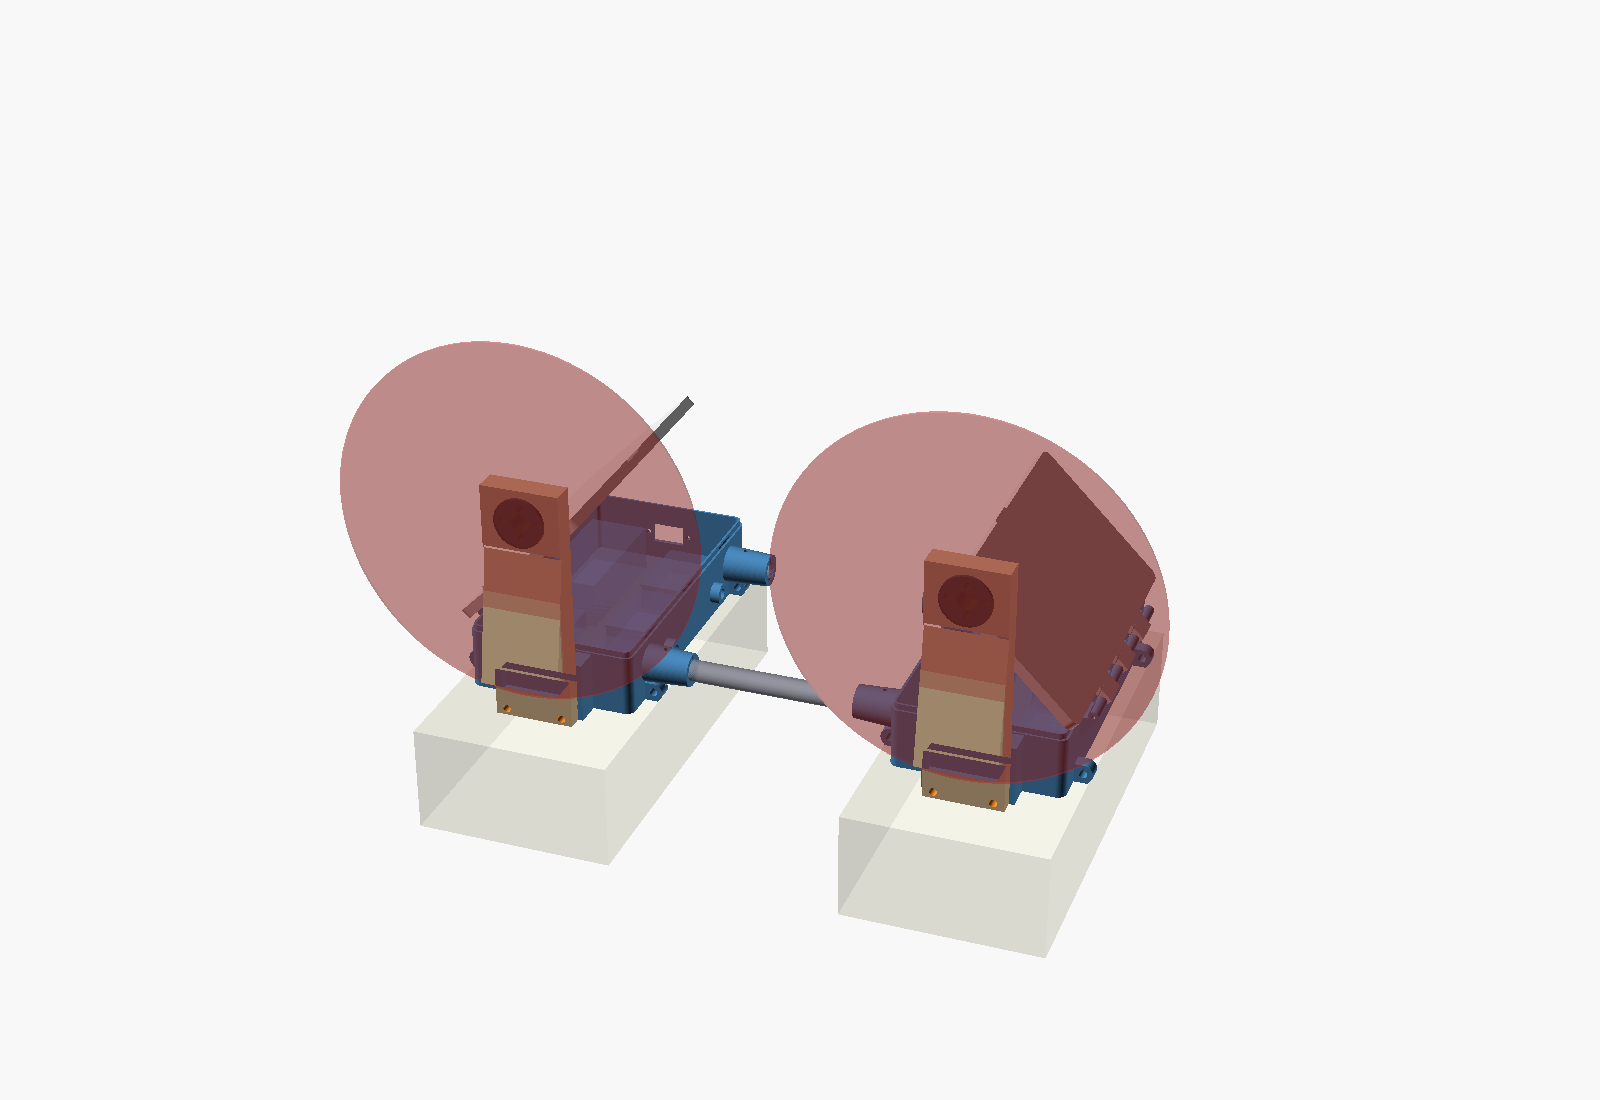
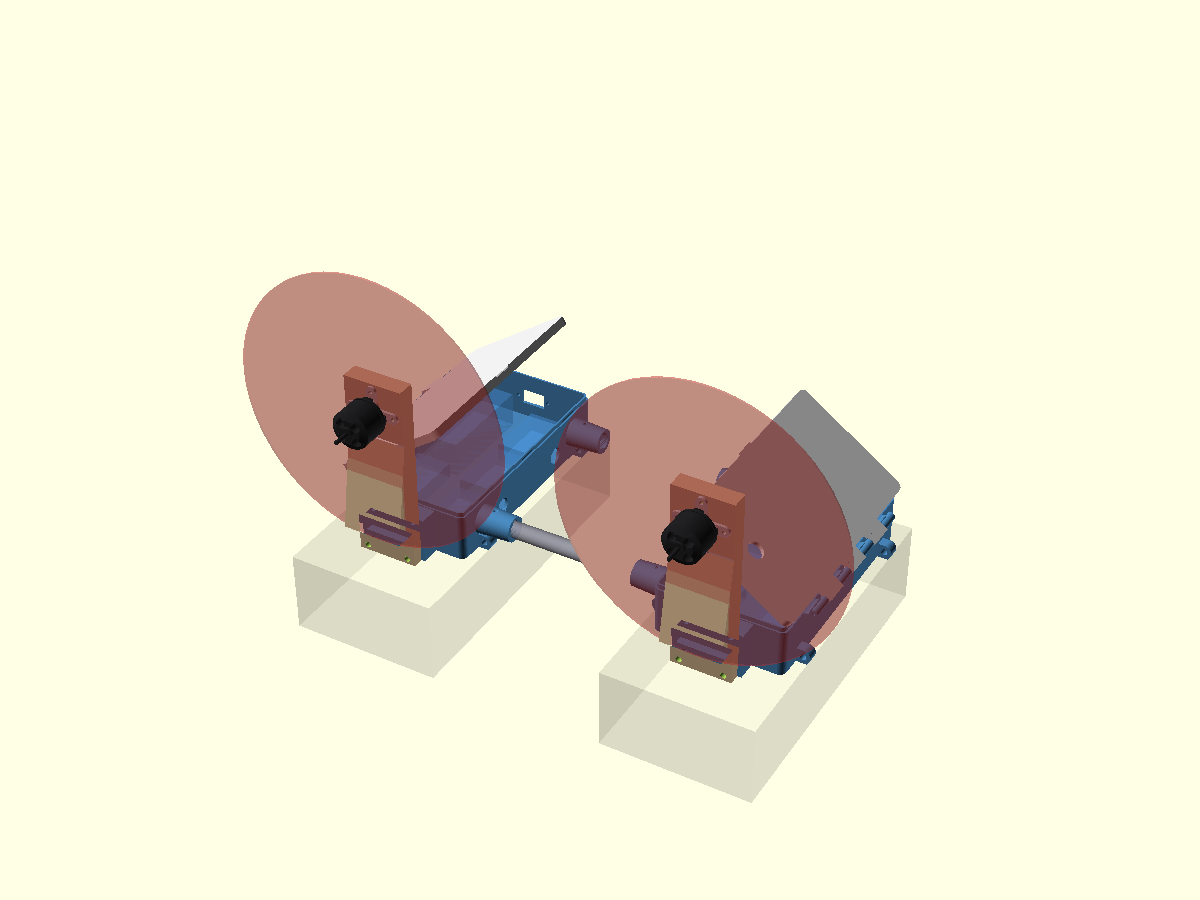
boat_enclosure: pad->BasePlate, lid gland, plain ports, BOSL2 threads, 3rd stim port
Follow-ups from Patrick's review of the airboat enclosure (items 2-6 of 6;
item 1 gusset flip held pending his decision).

- Item 2: pylon pad mounts the X BasePlate.stl (measured 39.5 sq): 4x M3 on the
  plate's outer "+" (32mm/axis) + a teardrop central boss clearance; removed the
  direct-2212 cuts and the motor_bolt_*/slot/screw_d/bore params. Added
  BasePlate/Motor import phantoms (show_hardware).
- Item 3: gland hole through the lid for the local motor's phase leads (clear of
  hinge/skirt/locks); dropped the pylon cable-groove.
- Item 4: cable ports are plain through-holes (deleted cable_port_boss); the
  gland provides the seal.
- Item 5: BOSL2 metric threads via threading.scad + a tapped_hole() helper --
  M4 in the stern block (teardrop, apex-up), M3 in the rod-socket grubs; a
  use_threads=false toggle falls back to thread-forming pilots.
- Item 6: a 3rd inboard stim_port (default off, independent of side).

Verified (house style): all parts NoError + 1 shell on both sides / stim / thread
toggles; fastener cuts intersect the cavity at 0 mm^3; ports are true through-
holes; lid seats at 0 interference; nest 242<=245; M4 + pad-bore teardrop apexes
print up. A 5-lens adversarial review found one real DFM issue (plain central
bore -> now teardropped).

Claude-Session: https://claude.ai/code/session_015scDx2YsMnYkF8kvaUpoWU

Changed region(s): [[0.2158, 0.3111, 0.7708, 0.9022], [0.185, 0.28, 0.3083, 0.4667]]

diff --git a/boat_enclosure/AIRBOAT-NOTES.md b/boat_enclosure/AIRBOAT-NOTES.md
@@ -71,6 +71,55 @@ openscad -o pylon.stl    -D 'part="pylon"'                       -D '$fn=128' ma
 - Assembly preview **omitted the connecting rods** → added rod ghosts; fixed the ghost motor axis.
 - Dead vars removed; bed-fit echo now tests **true** extents; stack-height echo added.
 
+## Follow-up round — Patrick's review of v0.1 (items 2–6 done, item 1 pending)
+
+Six follow-ups from Patrick's review. Five are implemented and probe-verified; item 1
+(gusset flip) is **held for a decision** (see below).
+
+| # | Ask | What changed |
+|---|---|---|
+| 2 | Pad mounts the **X BasePlate**, not the motor directly | `pylon_cut` now cuts 4× **M3** on the plate's **outer "+"** pattern (`bp_bolt=32` across each axis, holes at ±16) + a **⌀11.5 teardrop** central clearance for the motor boss. Pad grew to `pad_h=42` (backs the 39.5 plate, ≥3 mm wall at the M3s). Holes open **both sides** (flat-head from the plate, nut behind). Real `BasePlate.stl`/`Motor.stl` `import()` phantoms added (`show_hardware`). The old direct-2212 cuts and `motor_bolt_*`/`motor_slot`/`motor_screw_d`/`motor_bore` params were removed. |
+| 3 | Route the local motor leads through a **lid gland**, drop the pylon groove | `lid_gland` hole (⌀12.5, at X=0 Z=−60) pierces the lid panel only, clear of hinge/skirt/locks (≥9.5 mm to the stern lock). The pylon cable-groove is **removed** — mast face is solid again. |
+| 4 | Cable ports = **plain holes** (no gland boss) | `cable_port_boss` deleted; ports are clean ⌀12.5 through-holes (gland body + nut form the seal). `port_boss_t` gone. |
+| 5 | **BOSL2 metric threads** | `include ../BOSL2/threading.scad`; `tapped_hole()` helper. **M4** tapped in the 4 stern-block pylon-attach holes (teardrop crest, `spin=180` → apex prints up); **M3** tapped in the rod-socket grub holes (vertical axis). `use_threads=false` falls back to thread-forming pilots. |
+| 6 | **Third inboard port** for the stim wires, one hull only | `stim_port` (default off, **independent of `side`** — set it on whichever hull you print as the stim box) adds a ⌀12.5 port at Z=0, amidships (clear of both rod sockets and the two other ports). |
+
+**Measured off the real `BasePlate.stl`** (exact cylinders): plate 39.49 sq × 2 mm; central bore ⌀10;
+outer "+" (plate→pylon) at (±16,0)/(0,±16) ⌀3 (M3), countersunk; inner 2212 (motor→plate) at
+(±9.5,0)/(0,±7.75) ⌀2 — *the plate's business, not the pylon's*.
+
+**Verification (all passing, house style):** all parts `NoError` and **1 shell** on both `side`, with
+`stim_port` and `use_threads` on/off; **no fastener breaches the cavity** (thread cuts ∩ cavity = 0 mm³,
+even with the bigger thread major dia); ports open into the cavity (through-holes); lid still seats at
+**0 interference**; M3 grub reaches the rod bore (107.8 mm³, locks the rod); bed nest still **242 ≤ 245**.
+Print-orientation checks: M4 block-thread teardrop apex verified **up**; pad central bore teardrop apex
+verified **up** (Z reach 8.13 vs round 5.75). A 5-lens adversarial review (brief/geometry/DFM/watertight/
+regression) surfaced exactly one real issue — the pad central bore was a plain horizontal cylinder that
+would droop — now teardropped.
+
+### Toggles added this round
+
+```
+stim_port = true      # print the stim hull (adds the 3rd inboard port)
+use_threads = false   # fall back to thread-forming pilots if BOSL2 threads print poorly
+show_hardware = false # hide the BasePlate/Motor import phantoms in the assembly preview
+```
+
+### Item 1 — gusset flip: HELD for Patrick
+
+Patrick asked to flip the mast gusset so the **sloped face points forward (bow)** instead of aft. Two
+findings argue against a literal flip, so it's parked pending his call:
+
+- **Structural:** the pusher prop's forward thrust puts the **aft** mast face in **tension** (where PLA is
+  weakest). The current aft gusset reinforces exactly that face — flipping moves the reinforcement to the
+  compression side.
+- **Geometric:** a forward gusset extends toward the stern block and **collides with it by ~3839 mm³** at
+  the root (probed) — it can't sit where it's most needed without also pocketing (weakening) the block.
+
+Options for Patrick: **keep aft** (recommended — structural + no collision) · flip forward *and* pocket the
+block · symmetric double gusset (also collides forward at the root). Awaiting his reason (structural vs
+aesthetic/clearance) before touching it.
+
 ## Prop clearance (parametric)
 
 ```
@@ -84,11 +133,16 @@ Change `prop_diameter` to 254 (1045) and the pylon grows to ~110 mm above the bo
 
 ## Open items to confirm before printing
 
-1. **A2212 bolt pattern** — the default is the standard 16×19 mm cross (holes at ±8, ±9.5),
-   M3.2 clearance, with ±1 mm radial **slots** so a slightly-off pattern still bolts up.
-   *Measure the real motor with calipers and set `motor_bolt_x` / `motor_bolt_y`.*
-2. **`beam_target`** (default 240 mm) sets the rod length (144 mm) and must exceed `prop_diameter`
+1. **Gusset flip (item 1)** — decision needed: keep the aft gusset (recommended) or flip it
+   forward. See "Item 1 — gusset flip: HELD for Patrick" above.
+2. **BasePlate holes** — the pad matches the plate's **outer "+"** (⌀3/M3 at ±16) measured off
+   `BasePlate.stl`. Confirm your plate matches (`bp_bolt`, `bp_size`, `bp_bore`).
+3. **Gland sizes** — every gland hole defaults to **⌀12.5 (PG7)**: `port_stern_d`, `port_bow_d`,
+   `port_stim_d`, `lid_gland_d`. Set them to your actual glands (PG9 = 15.2, M12 = 12).
+4. **Threads print quality** — `use_threads=true` models real BOSL2 M4/M3. If they print poorly on
+   the MK3S, set `use_threads=false` for thread-forming pilots (`mm_bolt_pilot` / `rod_grub_d`).
+5. **`beam_target`** (default 240 mm) sets the rod length (144 mm) and must exceed `prop_diameter`
    or the two stern props collide — echo-checked. Confirm the catamaran beam you want.
-3. **Float dimensions** — `float_thickness` (60) and `float_freeboard` (42) at ~2 kg all-up are
+6. **Float dimensions** — `float_thickness` (60) and `float_freeboard` (42) at ~2 kg all-up are
    assumptions; they set the prop clearance. Confirm against the real float at load.
-4. **Rod grub screws vs split clamp** — currently a cross-drilled M3 grub screw per socket.
+7. **Which hull is the stim hull** — set `stim_port=true` on that print (independent of `side`).
